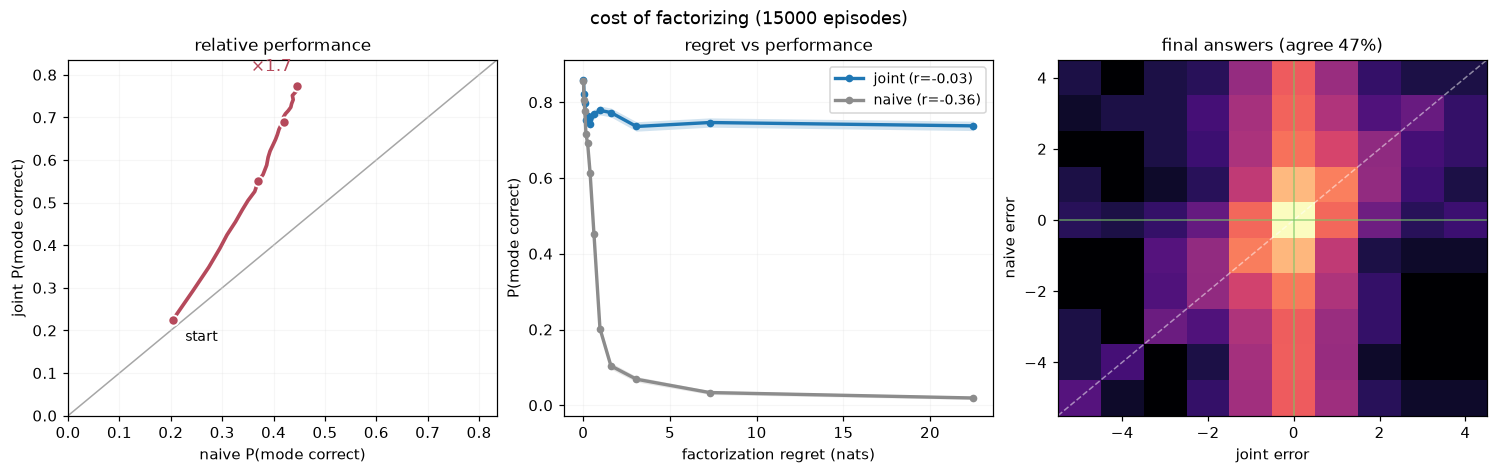
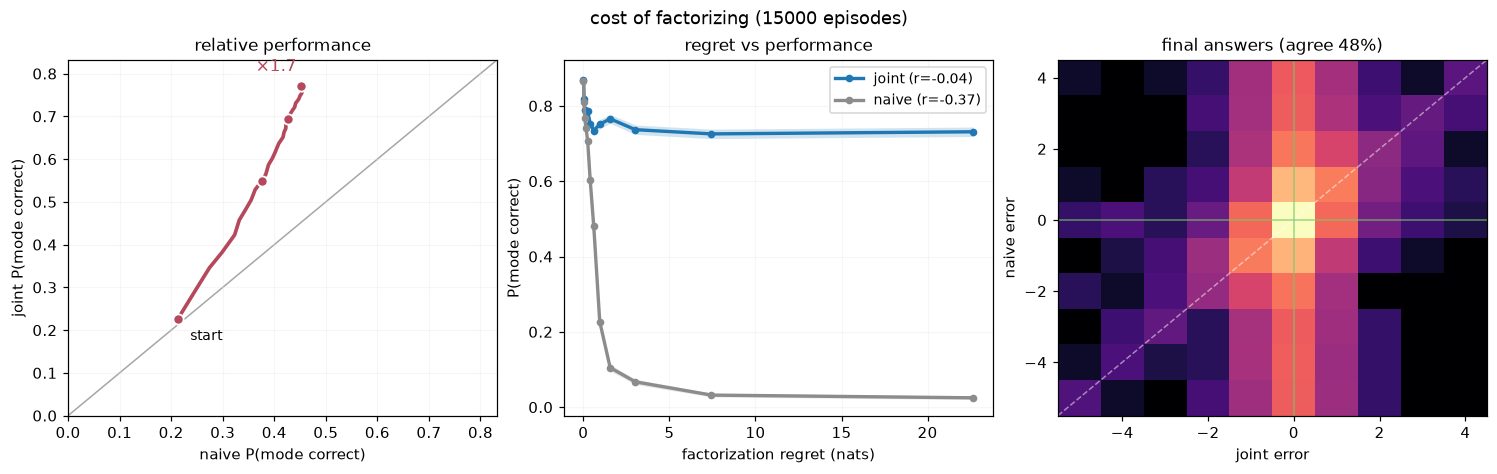
Regenerate README assets and decouple prose from the seed
The asset seeds are being tuned to pick representative episodes, so the
README no longer quotes exact correlations that a new seed would falsify.
The claim it makes -- flat for the joint observer, collapsing for the naive
one -- holds across seeds; the per-run numbers are printed in the panel.

diff --git a/docs/make_assets.py b/docs/make_assets.py
@@ -32,8 +32,9 @@ if __name__ == "__main__":
     parser.add_argument("--episodes", type=int, default=15000)
     args, _ignored = parser.parse_known_args()
     args.out.mkdir(parents=True, exist_ok=True)
-
-    cfg = CogGridConfig(n_vars=500, n_contexts=2, n_realizations=10, seed=0)
+    
+    
+    cfg = CogGridConfig(n_vars=500, n_contexts=2, n_realizations=10, seed=4)
     batch = World(cfg).sample_episodes(args.episodes)
     traces = run_observers(batch)
 
@@ -46,7 +47,9 @@ if __name__ == "__main__":
         print("wrote", path, f"({path.stat().st_size / 1e3:.0f} kB)")
 
     # One short episode animates into a much smaller GIF than the default 30.
-    short = CogGridConfig(n_vars=500, n_contexts=2, n_realizations=10, n_steps=16, seed=0)
+    short = CogGridConfig(
+        n_vars=500, n_contexts=2, n_realizations=10, n_steps=16, seed=5
+    )
     small = World(short).sample_episodes(1)
     clip = animate_episode(small, run_observers(small), extended=True, fps=4)
     path = clip.save(args.out / "episode_animation")

diff --git a/README.md b/README.md
@@ -78,9 +78,10 @@ pytest
 pushed the belief from optimal.
 
 The middle panel is the point. Binned by regret, the joint observer's accuracy is
-flat (`r = −0.03`) while the naive observer's collapses (`r = −0.36`). Regret is
-**not** a measure of how hard an episode is — a hard episode would hurt both. It
-is specifically a measure of how much *factorizing* costs on that episode.
+essentially flat (`|r| < 0.05`) while the naive observer's collapses
+(`r ≈ −0.37`). Regret is **not** a measure of how hard an episode is — a hard
+episode would hurt both. It is specifically a measure of how much *factorizing*
+costs on that episode. Exact per-run correlations are printed in the panel.
 
 ```python
 from coggrid import factorization_regret, disentanglement
